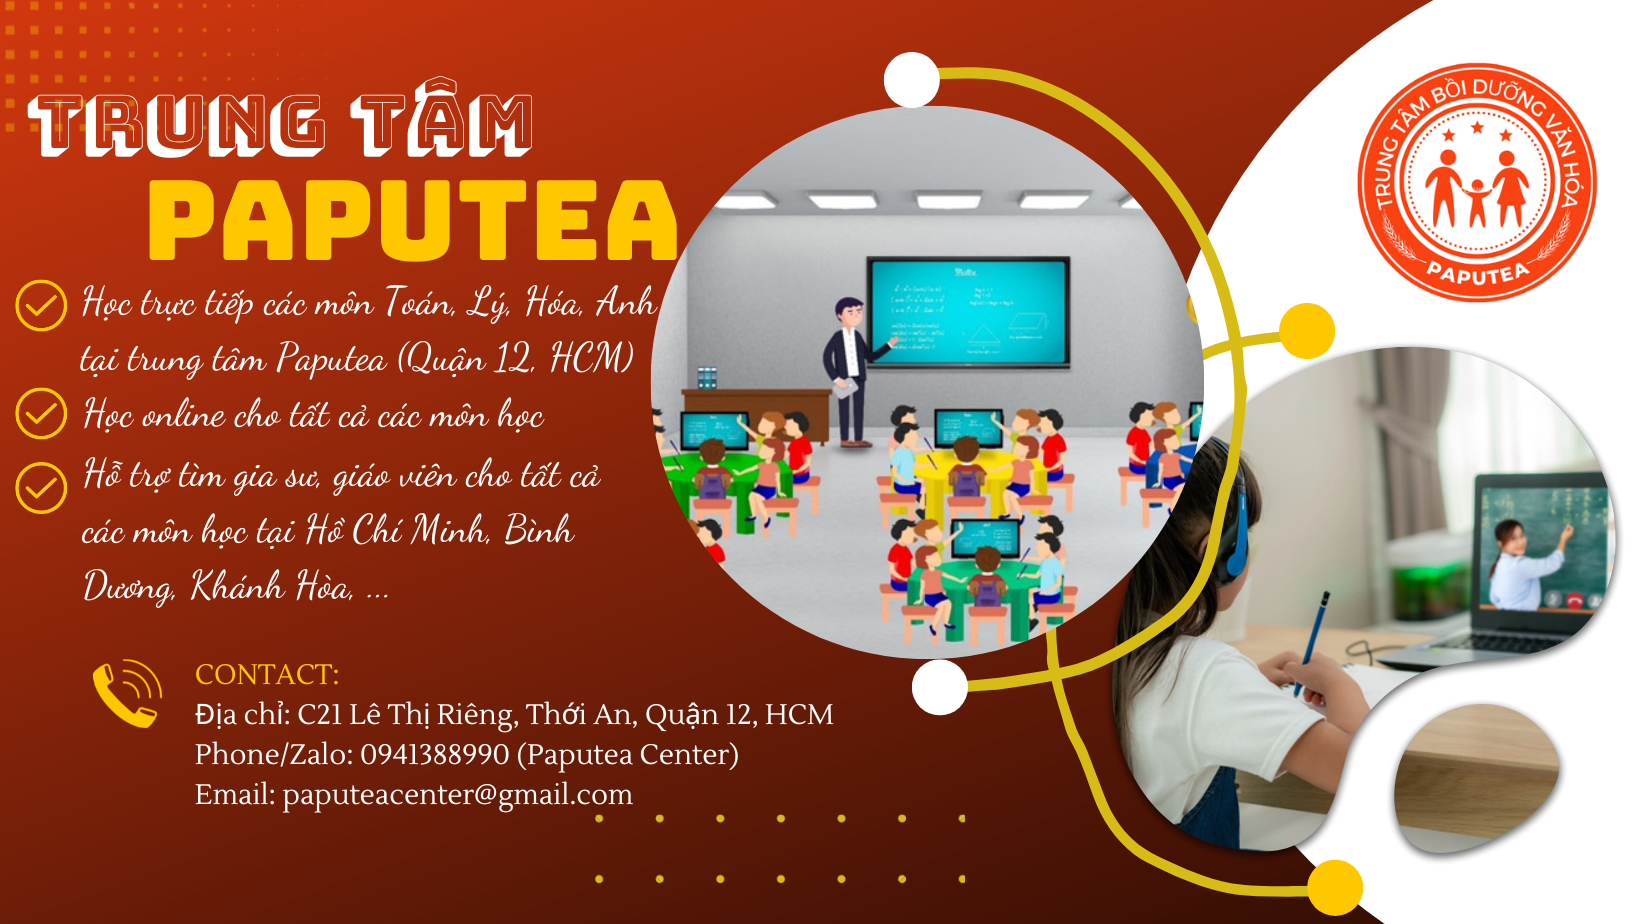
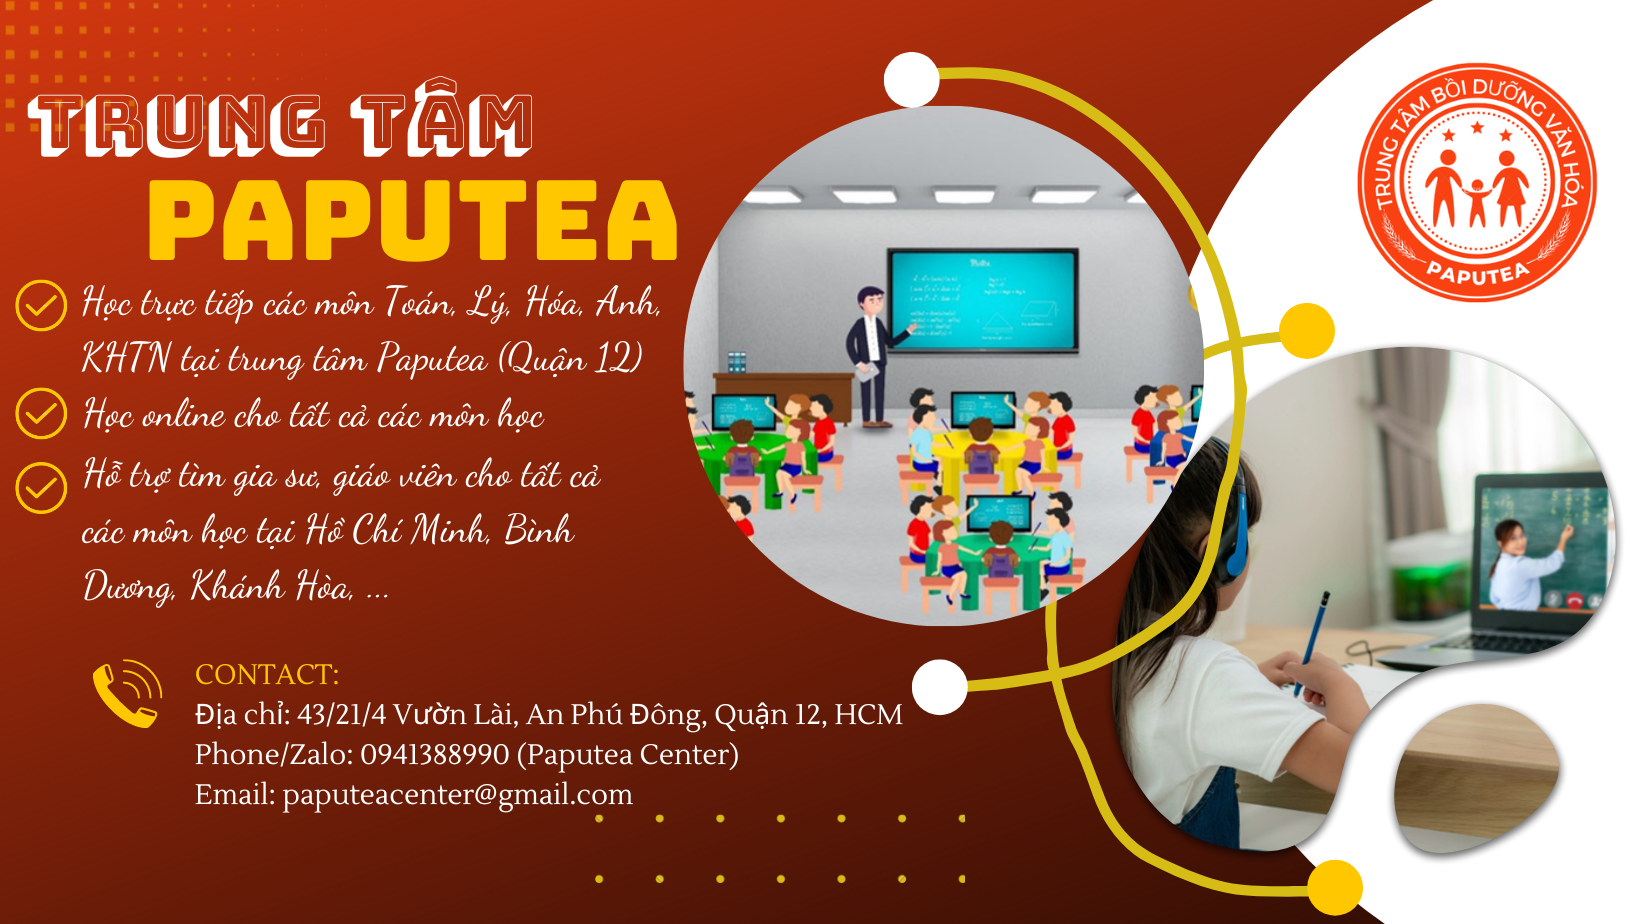
update the address

diff --git a/components/layout/main-footer.js b/components/layout/main-footer.js
@@ -121,12 +121,12 @@ function MainFooter() {
                     className="mb-1"
                     target="_blank"
                     rel="noreferrer"
-                    href="https://www.google.com/maps?ll=10.876283,106.654802&z=15&t=m&hl=en&gl=US&mapclient=embed&q=%C4%90.+L%C3%AA+Th%E1%BB%8B+Ri%C3%AAng+Th%E1%BB%9Bi+An+Qu%E1%BA%ADn+12+Th%C3%A0nh+ph%E1%BB%91+H%E1%BB%93+Ch%C3%AD+Minh"
+                    href="https://maps.app.goo.gl/gU18SwoLR7zGTv1V7"
                   >
                     <span>
                       <FontAwesomeIcon icon={faLocationDot} />
                       <span className="ml-2">
-                        C21 Lê Thị Riêng, P. Thới An, Q. 12, TP. Hồ Chí Minh
+                        43/21/4 Vườn Lài, An Phú Đông, Quận 12, TP. Hồ Chí Minh
                       </span>
                     </span>
                     <em>Địa chỉ</em>
@@ -158,11 +158,11 @@ function MainFooter() {
                 </p>
                 <div className="box mt-2">
                   <iframe
-                    src="https://www.google.com/maps/embed?pb=!1m18!1m12!1m3!1d9319.481799957115!2d106.64854740487561!3d10.860243755632828!2m3!1f0!2f0!3f0!3m2!1i1024!2i768!4f13.1!3m3!1m2!1s0x317529ddf5219545%3A0x8582b7850ec0e767!2zxJAuIEzDqiBUaOG7iyBSacOqbmcsIFRo4bubaSBBbiwgUXXhuq1uIDEyLCBUaMOgbmggcGjhu5EgSOG7kyBDaMOtIE1pbmgsIFZpZXRuYW0!5e0!3m2!1sen!2s!4v1677922492441!5m2!1sen!2s"
+                    src="https://www.google.com/maps/embed?pb=!1m18!1m12!1m3!1d3918.392751489749!2d106.6915423870775!3d10.857702918838568!2m3!1f0!2f0!3f0!3m2!1i1024!2i768!4f13.1!3m3!1m2!1s0x317529d6baa1fb37%3A0xf67c6300179c64e7!2zUGjDsm5nIHRy4buNIDQzLzIxLzQgVsaw4budbiBMw6Bp!5e0!3m2!1sen!2s!4v1706752036578!5m2!1sen!2s"
                     width="100%"
                     height="100%"
                     loading="lazy"
-                    referrerPolicy="no-referrer-when-downgrade"
+                    referrerpolicy="no-referrer-when-downgrade"
                   ></iframe>
                 </div>
               </div>

diff --git a/components/notes/tutor-rule.js b/components/notes/tutor-rule.js
@@ -28,9 +28,9 @@ function TutorNote() {
             stk 58010000979153 (chủ tk: Nguyễn Thị Thanh Cúc)
           </li>
           <li>
-            Đến trực tiếp trung tâm tại C21 - Lê Thị Riêng, phường Thới An, quận
-            12, thành phố Hồ Chí Minh (gần Ủy ban quận 12) để đóng phí nhận lớp.
-            SĐT liên lạc: <a href="tel:0941388990">0941-388-990</a>
+            Đến trực tiếp trung tâm tại 43/21/4 Vườn Lài, An Phú Đông, Quận 12,
+            TP. Hồ Chí Minh để đóng phí nhận lớp. SĐT liên lạc:{" "}
+            <a href="tel:0941388990">0941-388-990</a>
           </li>
         </ul>
 

diff --git a/components/forms/center-registration-form.js b/components/forms/center-registration-form.js
@@ -139,7 +139,7 @@ function CenterRegistrationForm() {
         Đăng ký lớp học trực tiếp tại Trung tâm Paputea
       </h1>
       <h3 className="subtitle is-3 is-size-5-touch">
-        (C21 Lê Thị Riêng- Quận 12- TP. Hồ Chí Minh)
+        (43/21/4 Vườn Lài, An Phú Đông, Quận 12, TP. Hồ Chí Minh)
       </h3>
 
       <SecurityMessage />
